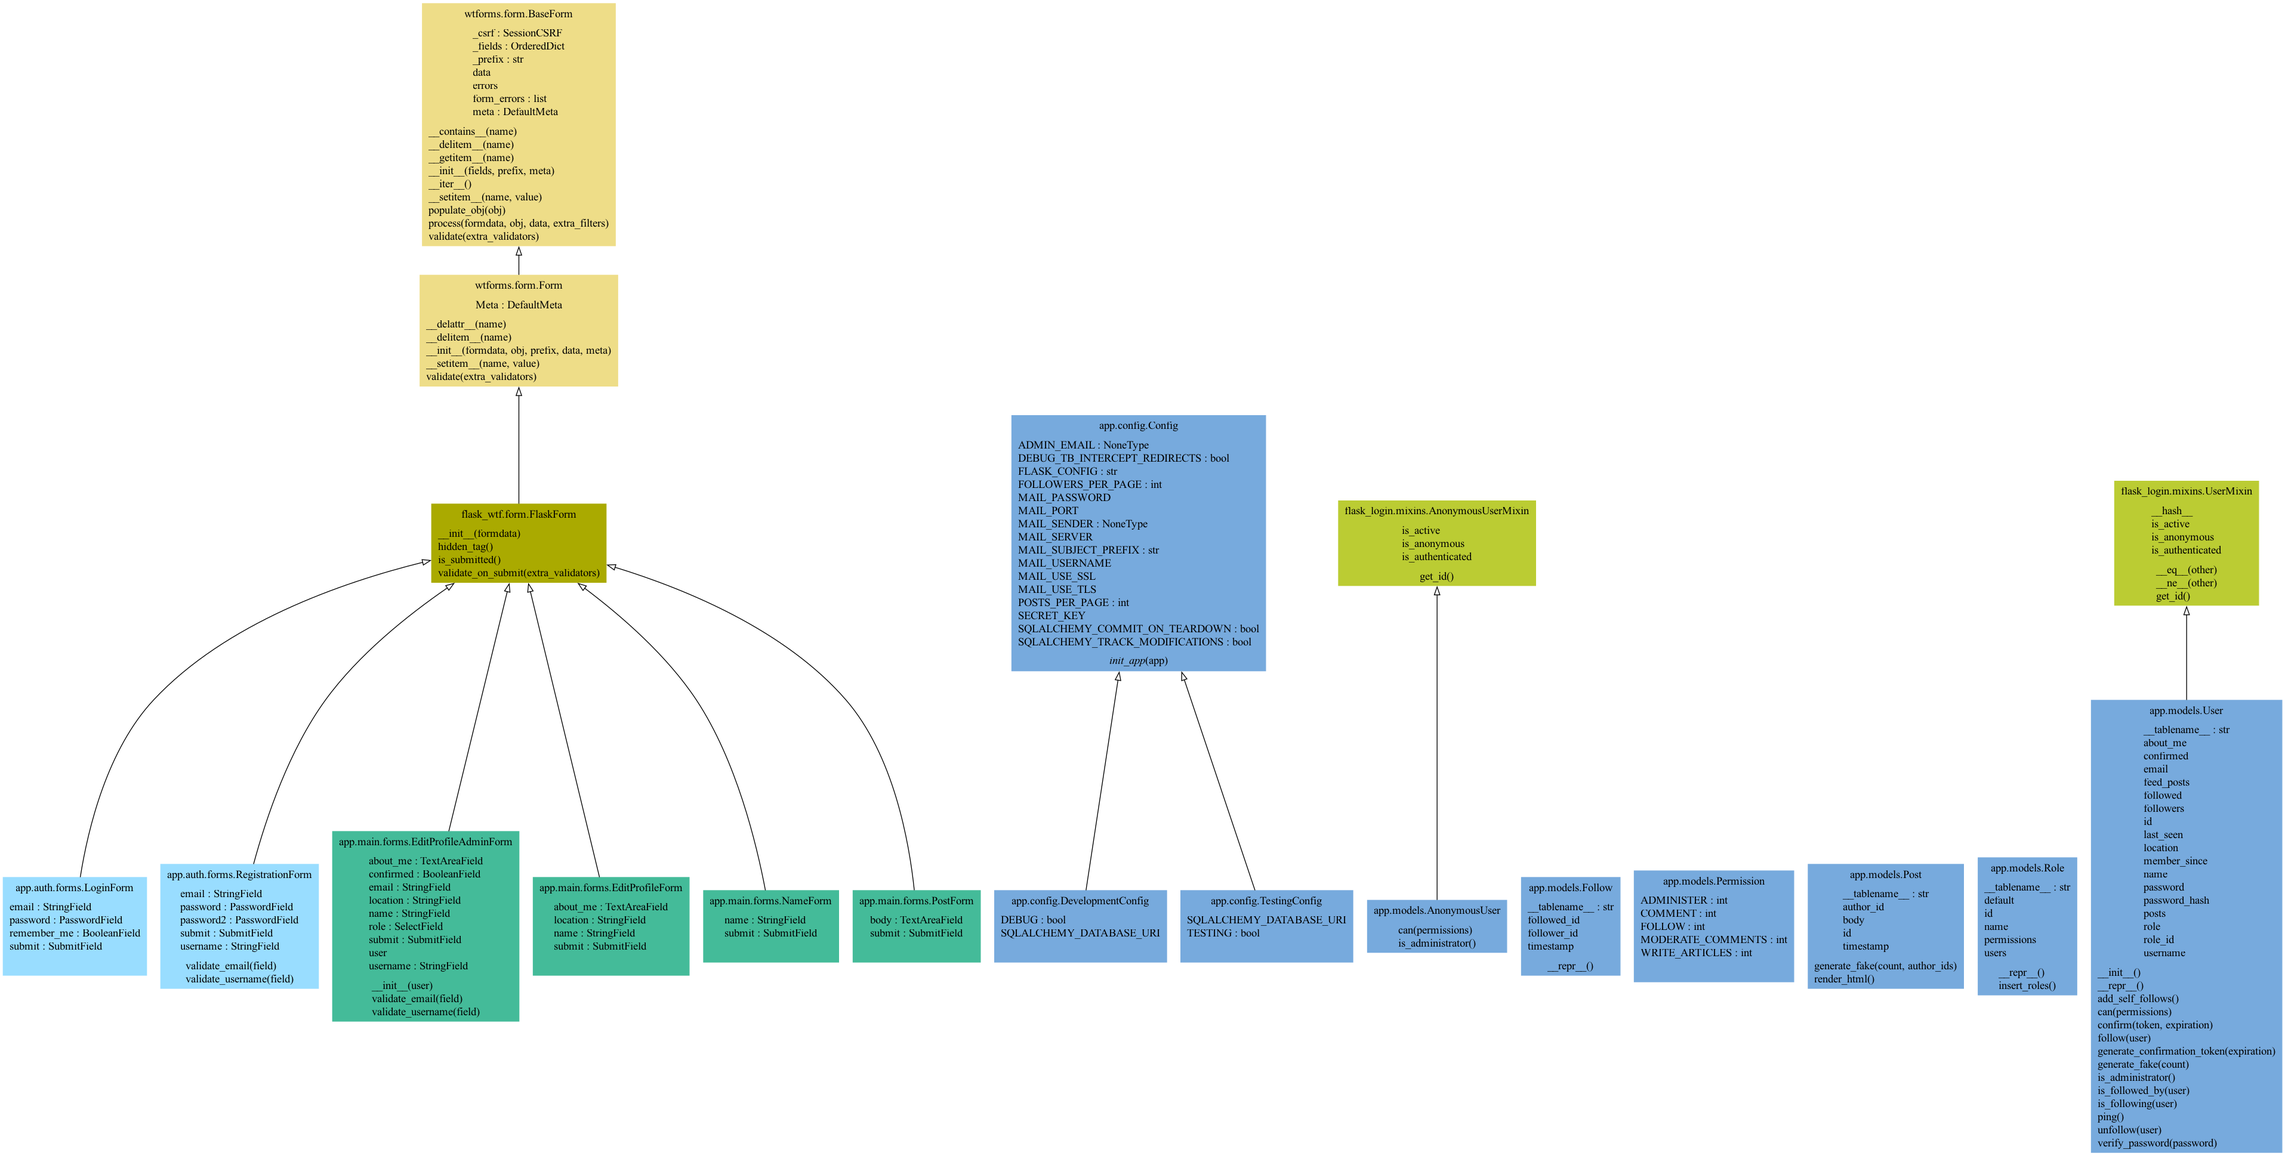
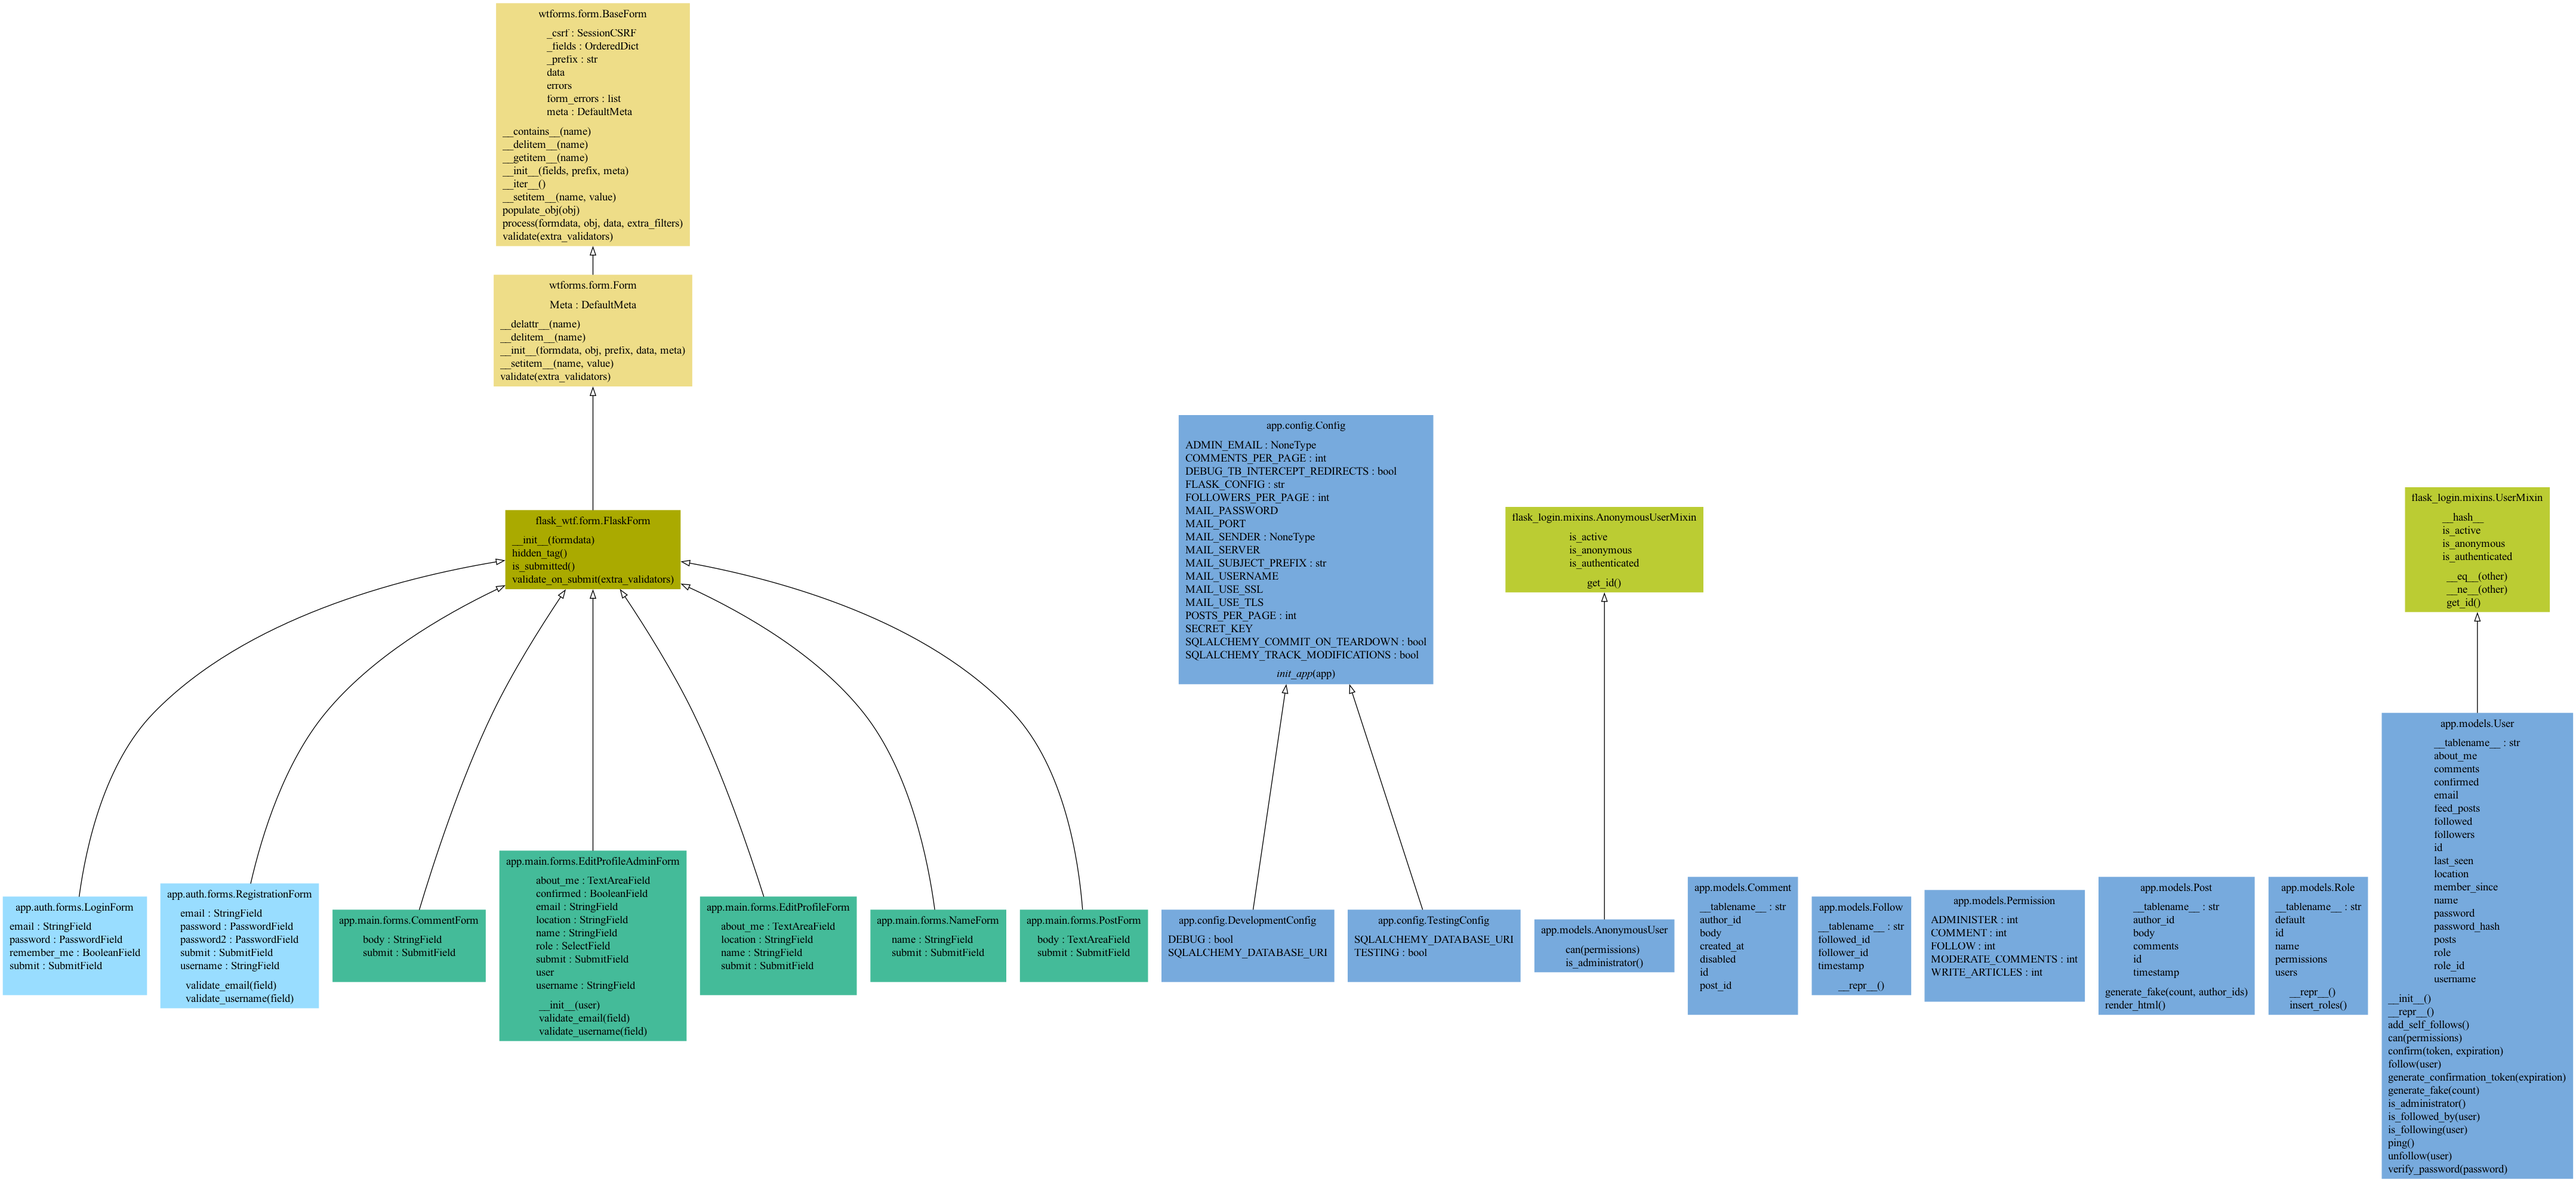
Добавлены комменты (без редактирования).

diff --git a/app/templates/_posts.html b/app/templates/_posts.html
@@ -23,16 +23,22 @@
                     {% if current_user == post.author or current_user.is_administrator() %}
                         <!-- Редактировать (зелёная) -->
                         <a href="{{ url_for('.post_edit', id=post.id) }}" class="badge text-bg-success text-decoration-none hover-effect me-2">
-                            Редактировать <i class="bi bi-pencil-square ms-1"></i>
+                            <i class="bi bi-pencil-square ms-1"></i>
+                            Редактировать
                             {% if current_user.is_administrator() and current_user != post.author %}[Admin]{% endif %}
                         </a>
                 
                         <!-- Удалить (красная) -->
-                        <a href="{{ url_for('.post_delete', id=post.id, page=request.args.get('page', 1)) }}" class="badge text-bg-danger text-decoration-none hover-effect">
-                            Удалить <i class="bi bi-trash ms-1"></i>
+                        <a href="{{ url_for('.post_delete', id=post.id, page=request.args.get('page', 1)) }}" class="badge text-bg-danger text-decoration-none hover-effect me-2">
+                            <i class="bi bi-trash ms-1"></i>
+                            Удалить
                             {% if current_user.is_administrator() and current_user != post.author %}[Admin]{% endif %}
                         </a>
                     {% endif %}
+                    <a href="{{ url_for('.post_details', id=post.id) }}#comments" class="badge text-bg-link text-decoration-none hover-effect me-2 bg-transparent text-dark">
+                        <i class="bi bi-chat-left-text me-1"></i>
+                        {{ post.comments.count() }} {% if post.comments.count() == 1 %}comment{% else %}comments{% endif %}
+                    </a>
                 </div>
             </div>
         </li>

diff --git a/app/templates/_comments.html b/app/templates/_comments.html
@@ -1,0 +1,19 @@
+<ul class="list-unstyled mb-4">
+    {% for comment in comments %}
+        <li class="mb-3 p-3 rounded-3 comment-item comment-hover" 
+            style="background-color: #f8f9fa20; border-left: 2px solid #e9ecef;">
+            <div class="comment-content">
+                <div class="d-flex justify-content-between align-items-center mb-2">
+                    <a href="{{ url_for('.profile', username=comment.author.username) }}" 
+                       class="text-dark fw-semibold text-decoration-none hover-primary">
+                        {{ comment.author.username }}
+                    </a>
+                    <small class="text-muted">{{ moment(comment.created_at).fromNow() }}</small>
+                </div>
+                <div class="text-break lh-sm" style="color: #495057;">
+                    {{ comment.body }}
+                </div>
+            </div>
+        </li>
+    {% endfor %}
+</ul>

diff --git a/app/templates/post_details.html b/app/templates/post_details.html
@@ -1,8 +1,31 @@
 {% extends "base.html" %}
+{% import "bootstrap/wtf.html" as wtf %}
+{% from "_pagination.html" import render_pagination %}
+
 {% block title %} 
     Russian Engineers - Пост {{posts[0].id}}     
 {% endblock %}
 
 {% block page_content %} 
-{% include '_posts.html' %} 
+{% include '_posts.html' %}
+
+<br> </br>
+<div class="page-header py-2 mb-3">
+    <h3 class="mb-0 text-muted"> Комменты: </h3> 
+</div>
+{% if current_user.can(Permission.COMMENT) %}
+    <div class="mt-4 p-3 rounded-3" style="background-color: #f8f9fa20;">
+        {{ wtf.quick_form(
+            form,
+            extra_classes="form-compact",
+            button_map={'submit': 'btn btn-sm btn-dark mt-2'}
+        ) }}
+    </div>
+{% endif %}
+<br> </br>
+
+{% if current_user.is_authenticated %}
+    {% include '_comments.html' %}
+    {{ render_pagination(pagination, id=posts[0].id) }}
+{% endif %}
 {% endblock %}

diff --git a/app/static/css/styles.css b/app/static/css/styles.css
@@ -289,6 +289,26 @@
     font-size: 0.875rem;
 }
 
+/* Hover-эффекты для комментариев */
+.comment-hover:hover {
+    background-color: rgba(0, 0, 0, 0.03) !important;
+    transition: background-color 0.2s ease;
+}
+
+.hover-primary:hover {
+    color: #0d6efd !important;
+    text-decoration: underline;
+}
+
+/* Плавные переходы */
+.comment-item {
+    transition: all 0.2s ease;
+}
+
+.rounded-3 {
+    transition: background-color 0.2s ease;
+}
+
 /* 
 
 Основные классы для кнопок:

diff --git a/app/templates/profile.html b/app/templates/profile.html
@@ -60,7 +60,10 @@
 	| <span class="label label-default">Follows you</span> 
 {% endif %}
 <br> </br>
-<h3>Мои посты:</h3> 
-	{% include '_posts.html' %}
-	{{ render_pagination(pagination, username=user.username) }}
+<div class="page-header py-2 mb-3">
+    <h3 class="mb-0 text-muted"> Мои посты: </h3> 
+</div>
+{% include '_posts.html' %}
+{{ render_pagination(pagination, username=user.username) }}
+
 {% endblock %}

diff --git a/app/main/views.py b/app/main/views.py
@@ -24,9 +24,10 @@ from .. import db
 from ..decorators import admin_required, permission_required
 from ..email import create_and_send_email_async
 from ..logger import LOG_FILE
-from ..models import Permission, Post, Role, User
+from ..models import Comment, Permission, Post, Role, User
 from . import main_bp
-from .forms import EditProfileAdminForm, EditProfileForm, NameForm, PostForm
+from .forms import (CommentForm, EditProfileAdminForm, EditProfileForm,
+                    NameForm, PostForm)
 
 basedir = Path(__file__).resolve().parent
 
@@ -310,12 +311,43 @@ def followed_by(username):
         follows=follows)
 
 
-@main_bp.route('/post/<int:id>')
+@main_bp.route('/post/<int:id>', methods=['GET', 'POST'])
 @login_required
 def post_details(id):
     # post = db.session.scalars(select(Post).where(Post.id == id)).all()
-    post = [db.session.get(Post, id)]   # Нужно вернуть список для итерирования в шаблоне
-    return render_template('post_details.html', posts=post)
+    post = db.session.get(Post, id)
+    form = CommentForm()
+    if form.validate_on_submit():
+        comment = Comment(
+            body=form.body.data,
+            author=current_user._get_current_object(),
+            post=post)
+        db.session.add(comment)
+        db.session.commit()
+        flash('Ваш комментарий успешно опубликован.')
+        return redirect(url_for('.post_details', id=post.id, page=-1))
+
+    page = request.args.get('page', 1, type=int)
+    per_page = current_app.config['COMMENTS_PER_PAGE']
+
+    pagination = post.comments.order_by(Comment.created_at.asc()).paginate(
+        page=page,
+        per_page=per_page,
+        error_out=False)
+
+    if page == -1:
+        page = pagination.pages  # Узнаем последнюю страницу
+        pagination = post.comments.order_by(Comment.created_at.asc()).paginate(
+            page=page,
+            per_page=per_page,
+            error_out=False)
+
+    return render_template('post_details.html',
+                           posts=[post],            # Нужно вернуть список для итерирования в шаблоне
+                           form=form,
+                           comments=pagination.items,
+                           pagination=pagination
+                           )
 
 
 @main_bp.route('/edit-post/<int:id>', methods=['GET', 'POST'])

diff --git a/app/models.py b/app/models.py
@@ -119,6 +119,8 @@ class User(db.Model, UserMixin):
                                cascade='all, delete-orphan'
                                )
 
+    comments = db.relationship('Comment', backref='author', lazy='dynamic')
+
     @property
     def feed_posts(self):
         stmt = (select(Post).join(Follow, Post.author_id == Follow.followed_id).
@@ -300,12 +302,18 @@ class AnonymousUser(AnonymousUserMixin):
         return False
 
 
+# Установка собственного класса для анонимного пользователя
+login_manager.anonymous_user = AnonymousUser
+
+
 class Post(db.Model):
     __tablename__ = 'posts'
     id = db.Column(db.Integer, primary_key=True)
     body = db.Column(db.Text)
     timestamp = db.Column(db.DateTime, index=True, default=datetime.now(timezone.utc))
     author_id = db.Column(db.Integer, db.ForeignKey('users.id'))
+
+    comments = db.relationship('Comment', backref='post', lazy='dynamic')
 
     # 🔹 Метод для рендеринга Markdown → HTML
     def render_html(self):
@@ -334,8 +342,14 @@ class Post(db.Model):
         return new_posts
 
 
-# Установка собственного класса для анонимного пользователя
-login_manager.anonymous_user = AnonymousUser
+class Comment(db.Model):
+    __tablename__ = 'comments'
+    id = db.Column(db.Integer, primary_key=True)
+    body = db.Column(db.Text)
+    created_at = db.Column(db.DateTime, index=True, default=datetime.now(timezone.utc))
+    disabled = db.Column(db.Boolean)
+    author_id = db.Column(db.Integer, db.ForeignKey('users.id'))
+    post_id = db.Column(db.Integer, db.ForeignKey('posts.id'))
 
 
 @login_manager.user_loader
@@ -343,7 +357,3 @@ def load_user(user_id):
     """Загрузка пользователя по ID.
     Требование Flask-Login."""
     return User.query.get(int(user_id))
-
-
-
-

diff --git a/app/main/forms.py b/app/main/forms.py
@@ -34,7 +34,7 @@ class EditProfileAdminForm(FlaskForm):
     submit = SubmitField('Сохранить')
 
     def __init__(self, user, *args, **kwargs):
-        super(EditProfileAdminForm, self).__init__(*args, **kwargs)
+        super(self).__init__(*args, **kwargs)
         self.user = user
         self.role.choices = [(role.id, role.name) for role in
                              db.session.scalars(select(Role).order_by(Role.name))]
@@ -51,5 +51,10 @@ class EditProfileAdminForm(FlaskForm):
 
 
 class PostForm(FlaskForm):
-    body = TextAreaField("О чем сегодня напишете ?")
+    body = TextAreaField("Введите текст поста...")
+    submit = SubmitField('Сохранить')
+
+
+class CommentForm(FlaskForm):
+    body = StringField('Напишите комментарий...', validators=[DataRequired()])
     submit = SubmitField('Сохранить')

diff --git a/some.py b/some.py
@@ -1,18 +1,12 @@
-# Файл для экспериментов, не относится к приложению.
+class Person:
+    def __init__(self, name, age, role=2):
+        self.name = name
+        self.age = age
+        self.role = role
 
-config = {
-    'development': 'DevelopmentConfig',
-    'testing': 'TestingConfig',
-
-    'default': 'DevelopmentConfig'
-}
+    def __new__(cls, *args, **kwargs):
+        return super().__new__(cls)
 
 
-# input_config = input("Введите конфиг:")
-# if input_config not in config:
-#     print(f'Нет такого конфига. Сейчас доступны: {list(config.keys())}')
-# else:
-#     print('Норм конфиг!')
-
-print(f'Дефолтный кокнфиг: {config.get("default")}')
-
+p1 = Person('Andre', 34)
+print(p1.role)

diff --git a/app/config.py b/app/config.py
@@ -41,6 +41,7 @@ class Config:
 
     POSTS_PER_PAGE = 4
     FOLLOWERS_PER_PAGE = 10
+    COMMENTS_PER_PAGE = 5
 
     # При импорте логических переменных важно ЯВНО привести их к логическому
     # типу. Иначе они будут интерпретированы как строка, что в свою очередь
